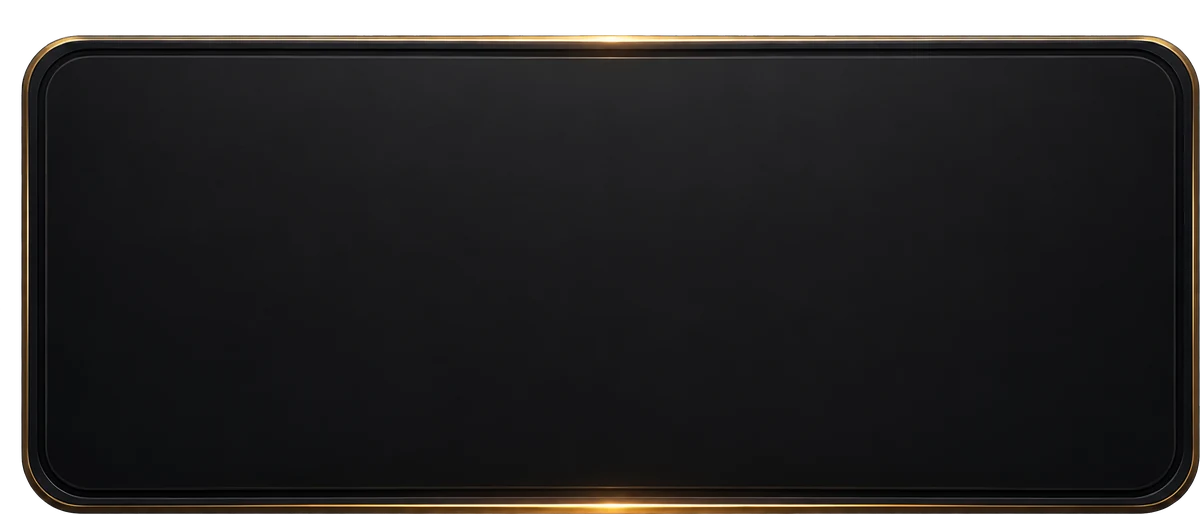
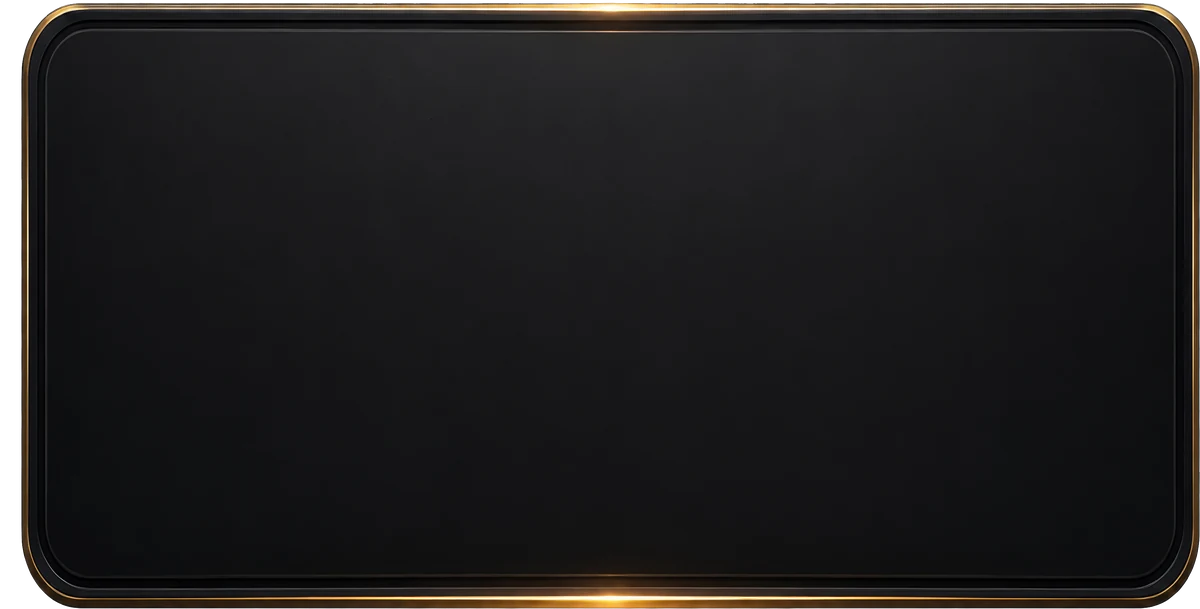
v2.146.0: het nieuwe kaartvak, met de kaart erin en de puntjes nagemaakt
De nieuwe sectie staat erin. Hij is een stuk hoger dan de vorige (1,97 breed op
hoog tegen 2,33), en dat komt goed uit: de kaart gaat op VOLLE BREEDTE, want
elke punt breedte is honderd kilometer nauwkeurigheid, en wat er onderaan
overblijft is precies de band waar de mockup de uitleg neerzet. Op de vorige,
lagere plaat paste dat niet en stond die regel eronder.

Opgemeten op de uitsnede van 3350x1699: de gouden lijst ligt op x 75 en 3335 en
op y 90 en 1635, dus het venster is 3110 bij 1495 en de kaart neemt daarvan de
bovenste 1227 in.

DE PUNTJES ZIJN NAGEMAAKT IN CODE en niet in de plaat gebrand, zodat ze
meeschalen en op elke sectie te hergebruiken zijn. Ze zijn uitgemeten op het
vraagvak (3030 breed): vierkant raster met een stap van 28,3 (0,934% van de
plaatbreedte), een punt met een kern van ongeveer twee pixels, kleur
(192, 148, 107), fel in de eerste twee kolommen en na acht à tien kolommen weg.
Dat laatste is hier het masker; het raster zelf is één radiaal verloopje dat
zich herhaalt. Ze liggen ONDER de kaart, dus je ziet ze door de oceaan heen en
niet over het land.

diff --git a/frontend/src/screens/_PreviewWereldprik.tsx b/frontend/src/screens/_PreviewWereldprik.tsx
@@ -493,10 +493,10 @@ function Naam({ tekst }: { tekst: string }) {
 // van de plaat: de secties schalen met de schermbreedte en dan moet alles wat
 // erop ligt vanzelf meeschuiven.
 const VRAAGVAK = "/ui/wereld/vraagvak.webp?v=1";
-const KAARTVAK = "/ui/wereld/kaartvak.webp?v=1";
+const KAARTVAK = "/ui/wereld/kaartvak.webp?v=2";
 /** Verhoudingen van de twee vellen, uit hun eigen uitsnede. */
 const VRAAG_V = 3030 / 1157;
-const KAARTVAK_V = 3350 / 1435;
+const KAARTVAK_V = 3350 / 1699;
 
 /** Waar de tekst in het vraagvak staat, gemeten op 3030x1157.
  *
@@ -514,10 +514,49 @@ const VRAAG_VLAK = {
   klok: { l: 210 / 3030, b: 2610 / 3030, t: 845 / 1157, h: 220 / 1157 },
 } as const;
 
-/** En het venster van het kaartvak, gemeten op 3350x1435: de gouden lijst ligt
- *  op x 75 en 3335 en op y 100 en 1390, dus dit is wat er binnen valt met een
+/** Het venster van het kaartvak, gemeten op 3350x1699: de gouden lijst ligt op
+ *  x 75 en 3335 en op y 90 en 1635, dus dit is wat er binnen valt met een
  *  streepje lucht ertegenaan. */
-const KAARTVAK_VLAK = { l: 150 / 3350, b: 3120 / 3350, t: 175 / 1435, h: 1170 / 1435 };
+const KAARTVAK_VLAK = { l: 120 / 3350, b: 3110 / 3350, t: 115 / 1699, h: 1495 / 1699 };
+
+/** Hoeveel van dat venster de KAART inneemt.
+ *
+ *  Het venster is 2,08 breed op hoog en de kaart 2,535, dus op volle breedte
+ *  blijft er onderaan een band over. Die band is geen verlies maar precies wat
+ *  de mockup vraagt: daar staat de uitleg in de onderrand van het kaartvak. Op
+ *  de vorige, lagere plaat kon dat niet, en toen stond die regel eronder.
+ *
+ *  De kaart gaat op volle BREEDTE en niet op volle hoogte: elke punt breedte is
+ *  honderd kilometer nauwkeurigheid, en die band eronder is toch nodig. */
+const KAART_DEEL = 1227 / 1495;
+
+/** De puntjes die de andere twee secties langs hun randen hebben, in code
+ *  nagemaakt zodat ze meeschalen en op elke plaat te hergebruiken zijn.
+ *
+ *  Opgemeten op het vraagvak (3030 breed): vierkant raster met een stap van
+ *  28,3 (0,934% van de plaatbreedte), een punt met een kern van ongeveer twee
+ *  pixels, kleur (192, 148, 107), fel in de eerste twee kolommen en na acht à
+ *  tien kolommen weg. Die uitdoving is hier het masker; het raster zelf is één
+ *  radiale verloopje dat zich herhaalt. */
+function Puntjes({ kant, breedte }: { kant: "links" | "rechts"; breedte: string }) {
+  const stap = `calc(${breedte} * 0.00934)`;
+  const vervaag = `linear-gradient(to ${kant === "links" ? "right" : "left"}, #000 0%, rgba(0,0,0,.55) 40%, transparent 100%)`;
+  return (
+    <span
+      aria-hidden
+      style={{
+        position: "absolute", top: 0, bottom: 0,
+        [kant === "links" ? "left" : "right"]: 0,
+        width: `calc(${breedte} * 0.093)`,
+        backgroundImage: "radial-gradient(circle, rgba(192,148,107,.9) 0 0.7px, rgba(192,148,107,0) 1.2px)",
+        backgroundSize: `${stap} ${stap}`,
+        WebkitMaskImage: vervaag,
+        maskImage: vervaag,
+        pointerEvents: "none",
+      } as React.CSSProperties}
+    />
+  );
+}
 
 const pct = (f: number) => `${(f * 100).toFixed(3)}%`;
 
@@ -785,37 +824,47 @@ export function Wereldprik({ seed, onKlaar, onOpnieuw }: {
       </div>
 
       {/* Het kaartvak. De kaart ligt IN de plaat: het donkere binnenwerk is de
-          oceaan en de gouden lijst de rand. */}
+          oceaan, de gouden lijst de rand, en in de band onderin staat wat er te
+          doen valt. */}
       <div style={{ width: SECTIE_BREED, position: "relative", aspectRatio: `${KAARTVAK_V}`, flexShrink: 0 }}>
         <ArtSchaduw art={KAARTVAK} />
         <img src={KAARTVAK} alt="" aria-hidden draggable={false} style={{ position: "absolute", inset: 0, width: "100%", height: "100%", display: "block" }} />
-        <Vlak vak={KAARTVAK_VLAK}>
-          <Kaart
-            wijs={wijs}
-            prik={prik}
-            doel={fase === "spel" ? null : doel}
-            dichtst={naaste}
-            actief={fase === "spel"}
-            onWijs={setWijs}
-            onPrik={doePrik}
-          />
-        </Vlak>
-      </div>
-
-      {/* De naam van het doel, of de bediening. ONDER de plaat en niet erop: in
-          de mockup ligt dat zinnetje in de linkeronderhoek van de kaart, en daar
-          ligt Patagonie. Een doel dat achter je eigen uitleg schuilgaat is geen
-          doel meer. */}
-      <div style={{ height: 18, display: "grid", placeItems: "center", marginTop: -4 }}>
-        {fase !== "spel" ? (
-          <span style={{ fontFamily: font.ui, fontSize: 12.5, fontWeight: 700, color: "#FFE7A8" }}>
-            {naam}
-          </span>
-        ) : (
-          <span style={{ fontFamily: font.ui, fontSize: 11.5, color: withAlpha("#FFE7A8", 0.55) }}>
-            {t("prikHint", { n: Math.round(tolerantie) })}
-          </span>
-        )}
+        {/* GEEN overflow op dit venster: de loep hangt boven je vinger en steekt
+            dus buiten de kaart uit. */}
+        <div
+          style={{
+            position: "absolute",
+            left: pct(KAARTVAK_VLAK.l), width: pct(KAARTVAK_VLAK.b),
+            top: pct(KAARTVAK_VLAK.t), height: pct(KAARTVAK_VLAK.h),
+          }}
+        >
+          <Puntjes kant="links" breedte={SECTIE_BREED} />
+          <Puntjes kant="rechts" breedte={SECTIE_BREED} />
+          <div style={{ position: "absolute", left: 0, right: 0, top: 0, height: pct(KAART_DEEL), display: "flex", alignItems: "center", justifyContent: "center" }}>
+            <Kaart
+              wijs={wijs}
+              prik={prik}
+              doel={fase === "spel" ? null : doel}
+              dichtst={naaste}
+              actief={fase === "spel"}
+              onWijs={setWijs}
+              onPrik={doePrik}
+            />
+          </div>
+          {/* De band onder de kaart: tijdens het spel de bediening, daarna de
+              naam van de plek die je zocht. */}
+          <div style={{ position: "absolute", left: 0, right: 0, bottom: 0, height: pct(1 - KAART_DEEL), display: "flex", alignItems: "center", justifyContent: "center", paddingInline: "4%" }}>
+            {fase !== "spel" ? (
+              <span style={{ fontFamily: font.ui, fontSize: 12.5, fontWeight: 700, color: "#FFE7A8", whiteSpace: "nowrap" }}>
+                {naam}
+              </span>
+            ) : (
+              <span style={{ fontFamily: font.ui, fontSize: 11, color: withAlpha("#FFE7A8", 0.5), whiteSpace: "nowrap" }}>
+                {t("prikHint", { n: Math.round(tolerantie) })}
+              </span>
+            )}
+          </div>
+        </div>
       </div>
 
       {/* De stopknop, zo breed als in de mockup maar in het ROOD van de app.

diff --git a/frontend/src/version.ts b/frontend/src/version.ts
@@ -1,2 +1,2 @@
 // Bump per user-facing release. Shown in Settings > About.
-export const APP_VERSION = "2.145.1";
+export const APP_VERSION = "2.146.0";
